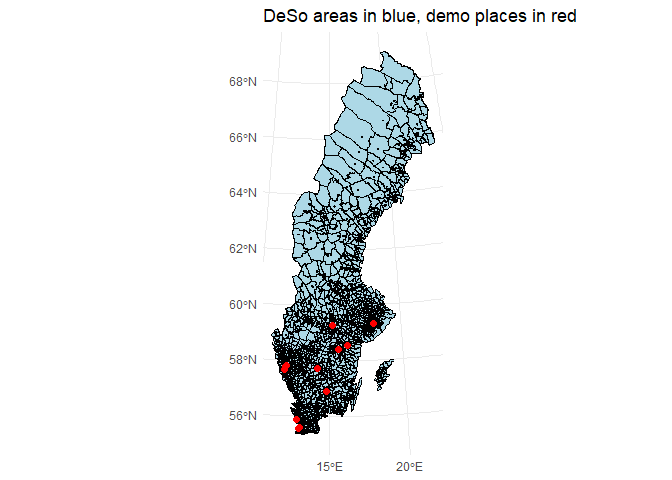
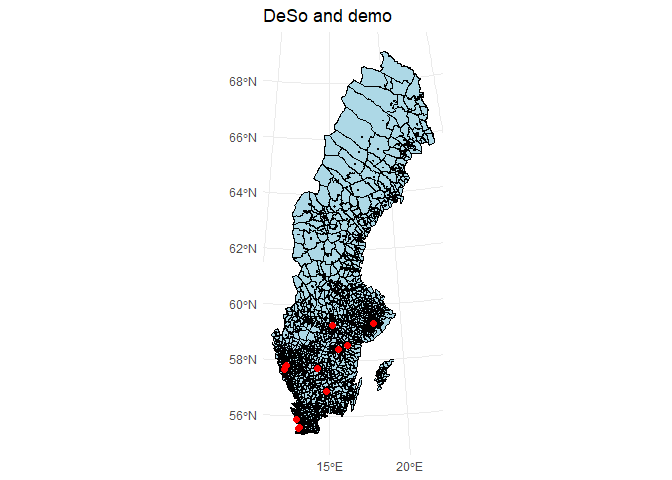
change of figure title

Changed region(s): [[0.4688, 0.0, 0.875, 0.0625]]

diff --git a/riots.md b/riots.md
@@ -923,6 +923,9 @@ To find where Quran buring demos took place we read in the demo file
 that Jeff got from the police and focus only on 2022. I looked up
 addresses and added coordinates manually in the file.
 
+In the figure below Deso neighborhoods are in light blue and
+demonstrations are red points.
+
 ``` r
 demo <- read_excel("demo_data/A466.302-2024.xlsx")
 ```
@@ -1046,7 +1049,7 @@ ggplot() +
   geom_sf(data = deso, fill = "lightblue", color = "black") +  
   geom_sf(data = demo_transformed, color = "red", size = 2) +
   theme_minimal() +
-  labs(title = "DeSo areas in blue, demo places in red")
+  labs(title = "DeSo and demo")
 ```
 
 ![](riots_files/figure-gfm/demo-1.png)<!-- -->
@@ -1068,7 +1071,7 @@ deso <- deso %>%
 ```
 
 Generate a database with neighborhood statistics and create shares for
-variables. Add neighbourhood area and population density.
+variables. Add neighborhood area and population density.
 
 ``` r
 database <- empl %>%
